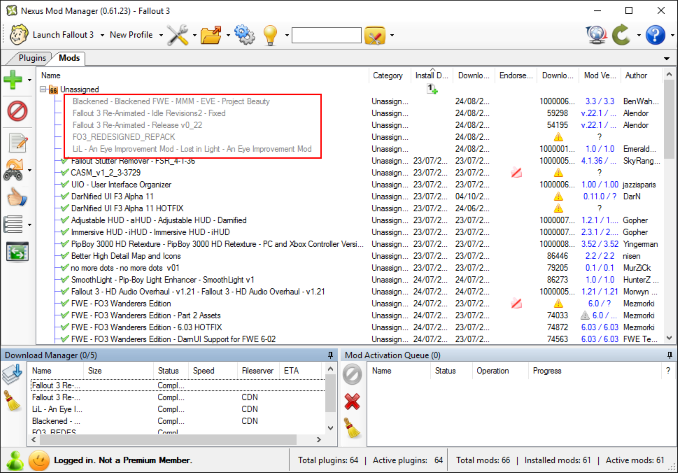
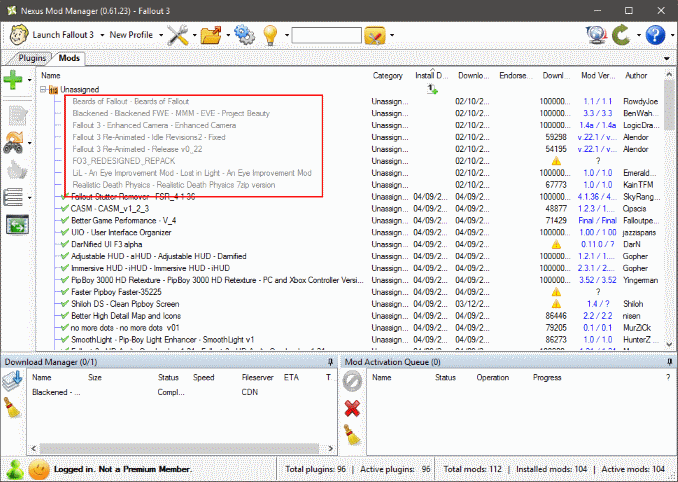
This is the last of the rewritten chapters of the first iteration, and it's about animations and faces.
I have two new chapters ahead, one about weapons retexturing and the other about _Mothership Zeta_ DLC retexturing.

We are almost there!

diff --git a/Modding never changes.md b/Modding never changes.md
@@ -52,7 +52,7 @@
 	- [6.4. Nobody said the Nuclear Holocaust should be unpleasant to look at](#unpleasantNuclearHolocaust)
 	- [6.5. The Devil is in the details](#devilInDetails)
 	- [6.6. Let there be light!](#letThereBeLight)
-	- [6.7. I don't like your face](#dontLikeYourFace)
+	- [6.7. I don't like your face (nor the way you move)](#dontLikeYourFace)
 * [7. Wrapping up](#wrappingUp)
 * [8. Resources](#resources)
 	* [8.1. Tools](#tools)
@@ -1492,7 +1492,7 @@ _Darkened Interiors_ tries to give interiors a realistic lighting, with deep sha
 
 
 
-### <a id="dontLikeYourFace"></a>6.7. I don't like your face
+### <a id="dontLikeYourFace"></a>6.7. I don't like your face (nor the way you move)
 
 I guess no one is able to remember the moment of her birth, unless you are a trickster. However, I would be shitting bricks my whole life if my first sight in this world were these eyes.
 
@@ -1512,46 +1512,55 @@ Consider the face of your childhood friend Amata, and take into account that her
 
 The following mods target the faces, character animation and eye textures.
 
+* [_Beards of Fallout_](http://www.nexusmods.com/fallout3/mods/18622/)
+* [_Fallout 3 - Enhanced Camera_](http://www.nexusmods.com/fallout3/mods/20183/)
 * [_Fallout 3 re-animated_](http://www.nexusmods.com/fallout3/mods/7670/)
 * [_Fallout 3 redesigned_](http://www.nexusmods.com/fallout3/mods/6341/)
 * [_Lost in Light_](http://www.nexusmods.com/fallout3/mods/19163/)
 
-_Fallout 3 re-animated_ changes the default animations of every character in-game, getting a more natural stance, both in combat and resting. _Fallout 3 redesigned_, formerly known as _Project Beauty_, changes all the faces throughout the game, giving people a more natural look. Finally, _Lost in Light_ (LiL, for short) replaces the vanilla eye textures with proper eyeballs using proper light reflection. No more people screaming out their pain of their wretched souls through the eyes. As usual, Gopher has a video about [people reanimated and redesigned](https://www.youtube.com/watch?v=smLZNJIMCQA) (11:06), although he doesn't cover LiL.
+_Fallout 3 re-animated_ changes the default animations of every character in-game, getting a more natural stance, both in combat and resting. _Fallout 3 redesigned_, formerly known as _Project Beauty_, changes all the faces throughout the game, giving people a more natural look. _Lost in Light_ (LiL, for short) replaces the vanilla eye textures with proper eyeballs using proper light reflection. No more people screaming out their pain of their wretched souls through the eyes. _Beards of Fallout_ adds a lot of new beards for your character (I am myself strongly biased towards beards, because, you know, I like to groom mine in real life). Finally, _Fallout 3 - Enhanced Camera_ allows us to see our own feet when in first person, improving game immersion.
+
+As usual, Gopher has a video about [people reanimated and redesigned](https://www.youtube.com/watch?v=smLZNJIMCQA) (11:06), although he doesn't cover LiL.
 
 The installation is a bit tricky, regarding to _Fallout 3 Redesigned_, so let's do it.
 
 1. Download _Release v0\_22_ and _Idle Revisions2 - Fixed_ from _Fallout 3 re-animated_ with NMM.
-2. Download _FO3 Redesigned HD_, but download it **manually**. We are going to meddle with the file a little. The file is named `FO3 Redesigned HD-6341-2-74-2.zip` (obviously, these instructions may not apply with a different version of the mod).
+2. Download [_FO3 Redesigned HD_](http://www.nexusmods.com/fallout3/download/1000010302), but download it **manually**. We are going to meddle with the file a little. The file is named `FO3 Redesigned HD-6341-2-74-2.zip` (obviously, these instructions may not apply with a different version of the mod).
 3. Download _Lost in Light - An Eye Improvement Mod_ with NMM.
-4. Unzip `FO3 Redesigned HD-6341-2-74-2.zip` in a location of your choice, say `[%FO3_REDESIGNED%]`.
-5. The structure of the ZIP file is a bit weird.
+4. Download _Beards of Fallout_ from _Beards of Fallout_ with NMM.
+5. Download _Enhanced Camera_ from _Fallout 3 - Enhanced Camera_ with NMM.
+6. Unzip `FO3 Redesigned HD-6341-2-74-2.zip` in a location of your choice, say `[%FO3_REDESIGNED%]`.
+7. The structure of the ZIP file is a bit weird.
 ![FO3 Redesigned mod structure](Images/FO3%20Redesigned%20mod%20structure.png)
-6. We are going to create a mod file with just the items we need, in the proper place. Create a folder anywhere you want, say `[%FO3_REDESIGNED_REPACK%]`.
-7. Create the following folders under `[%FO3_REDESIGNED_REPACK%]`:
+8. We are going to create a mod file with just the items we need, in the proper place. Create a folder anywhere you want, say `[%FO3_REDESIGNED_REPACK%]`.
+9. Create the following folders under `[%FO3_REDESIGNED_REPACK%]`:
 	* `Meshes`
 	* `textures`
-8. Copy the following files from `[%FO3_REDESIGNED%]` into `[%FO3_REDESIGNED_REPACK%]`:
+10. Copy the following files from `[%FO3_REDESIGNED%]` into `[%FO3_REDESIGNED_REPACK%]`:
 	* `/meshes/*.*` &rarr; `/Meshes/`
 	* `/textures/*.*` &rarr; `/textures/`
 	* `/Optional Merged Version/Project Beauty.esm` &rarr; `/`
-9. Zip the contents of the `[%FO3_REDESIGNED_REPACK%]` folder into a file named `FO3_REDESIGNED_REPACK.zip`. The folders `/Meshes/` and `/textures/` should be in the root of the ZIP file.
-10. In NMM, use the option _Add Mod from File_ (green plus sign in the leftmost button bar) and select the newly created file.
-11. We need one final thing to put all the pieces together. Remember the chapter about [weaponry](#weNeedMoreFirepower), when I told you about a Blackened patch we couldn't install yet? That was _Blackened FWE - MMM - EVE - Project Beauty_ file from [_Blackened_](http://www.nexusmods.com/fallout3/mods/18173/). Now it's the time to download it with NMM.
-12. Ok, we have all the files we need, ready to be installed.
+11. Zip the contents of the `[%FO3_REDESIGNED_REPACK%]` folder into a file named `FO3_REDESIGNED_REPACK.zip`. The folders `/Meshes/` and `/textures/` should be in the root of the ZIP file.
+12. In NMM, use the option _Add Mod from File_ (green plus sign in the leftmost button bar) and select the newly created file.
+13. We need one final thing to put all the pieces together. In the chapter about [weaponry](#weNeedMoreFirepower) we installed a Blackened compatibility patch to stitch together _FWE_, _MMM_ and _EVE_. Now, we are going to replace that patch with an expanded version, which includes _Project Beauty_. Download _Blackened FWE - MMM - EVE - Project Beauty_ file from [_Blackened_](http://www.nexusmods.com/fallout3/mods/18173/).
+14. Ok, we have all the files we need, ready to be installed.
 ![NMM people redesigned and reanimated mods](Images/NMM%20people%20redesigned%20and%20reanimated%20mods.png)
-13. Activate the mods in the following order:
+15. Activate the mods in the following order:
 	* _Fallout 3 Re-Animated - Release v0\_22_ (this one overwrites files from _RH\_IronSights_, so answer _Yes to all_ when asked to).
 	* _Fallout 3 Re-Animated - Idle Revisions2 - Fixed_ (this one overwrites files from the previous file, so answer _Yes to all_ when asked to).
-	* _FO3\_REDESIGNED\_REPACK_ (no overwriting required).
+	* _FO3\_REDESIGNED\_REPACK_. No overwriting required.
 	* _LiL - An Eye Improvement Mod - Lost in Light - An Eye Improvement Mod_ (this one overwrites files from _Fallout 3 Redesigned_, so answer _Yes to all_ when asked to).
-	* _Blackened - Blackened FWE - MMM - EVE - Project Beauty_ (this is a patch, so overwriting is expected; you know the drill).
-14. Run LOOT to rearrange your load order.
+	* _Beards of Fallout - Beards of Fallout_. No overwriting required.
+	* _Fallout 3 - Enhanced Camera - Enhanced Camera_. No overwriting required.
+16. To install the _Blackened_ patch, we need first to uninstall the previous _Blackened patch_. Look for _Blackened - Blackened FWE - MMM - EVE_ in your mod list and double-click on it (or press the "forbidden" sign below the "plus" sign after selecting the mod) to install the obsolete patch.
+17. Activate _Blackened - Blackened FWE - MMM - EVE - Project Beauty_. No overwriting required.
+18. Run LOOT to rearrange your load order.
 
 Let's see how the game changes with this. What about the defining moment of your birth?
 
 ![Fallout 3 not so scary first sight](Images/Fallout%203%20not%20so%20scary%20first%20sight.png)
 
-Well, it's a little bit les scary, although there are some remaining embers in these eyes.
+Well, it's a little bit less scary, although there are some remaining embers in these eyes.
 
 ![Fallout 3 embers in your eyes](Images/Fallout%203%20embers%20in%20your%20eyes.png)
 
@@ -1567,7 +1576,9 @@ And what about Amata?
 
 ![Fallout 3 Amata has changed a bit](Images/Fallout%203%20Amata%20has%20changed%20a%20bit.png)
 
-The changes are remarkable, as you can see by looking at before/after images side by side.
+Furthermore, we can lose ourselves staring at our feet!
+
+![Fallout 3 look at your feet](Images/Fallout%203%20look%20at%20your%20feet.png)
 
 
 
@@ -1703,7 +1714,6 @@ This is the list of mods used throughout this guide, in ascending alphabetical o
 * [_PipBoy 3000 HD Retexture_](http://www.nexusmods.com/fallout3/mods/20373/)
 * [_Project Reality_](http://www.nexusmods.com/fallout3/mods/17418/)
 * [_Pure Water_](http://www.nexusmods.com/fallout3/mods/2599/)
-* [_Realistic Death Physics_](http://www.nexusmods.com/fallout3/mods/12306/)
 * [_Retextured Clutter Collection_](http://www.nexusmods.com/fallout3/mods/6894/)
 * [_RH Ironsights_](http://www.nexusmods.com/fallout3/mods/6938/)
 * [_Rivet City Texture Pack_](http://www.nexusmods.com/fallout3/mods/3612/)

diff --git a/README.md b/README.md
@@ -6,6 +6,14 @@ Take a look at the file `Modding never changes.md`. That is the main guide file,
 
 ### Changelog
 
+**(v0.39) [02/10/2016] Rewrite complete up to 6.7.**
+
+This is the last of the rewritten chapters of the first iteration, and it's about animations and faces.
+
+I have two new chapters ahead, one about weapons retexturing and the other about _Mothership Zeta_ DLC retexturing.
+
+We are almost there!
+
 **(v0.38) [02/10/2016] Rewrite complete up to 6.6.**
 
 The chapter about lighting had gone through little modifications: just a bit of extra info about the mods and new downscaled and clean screenshots, that is all.
